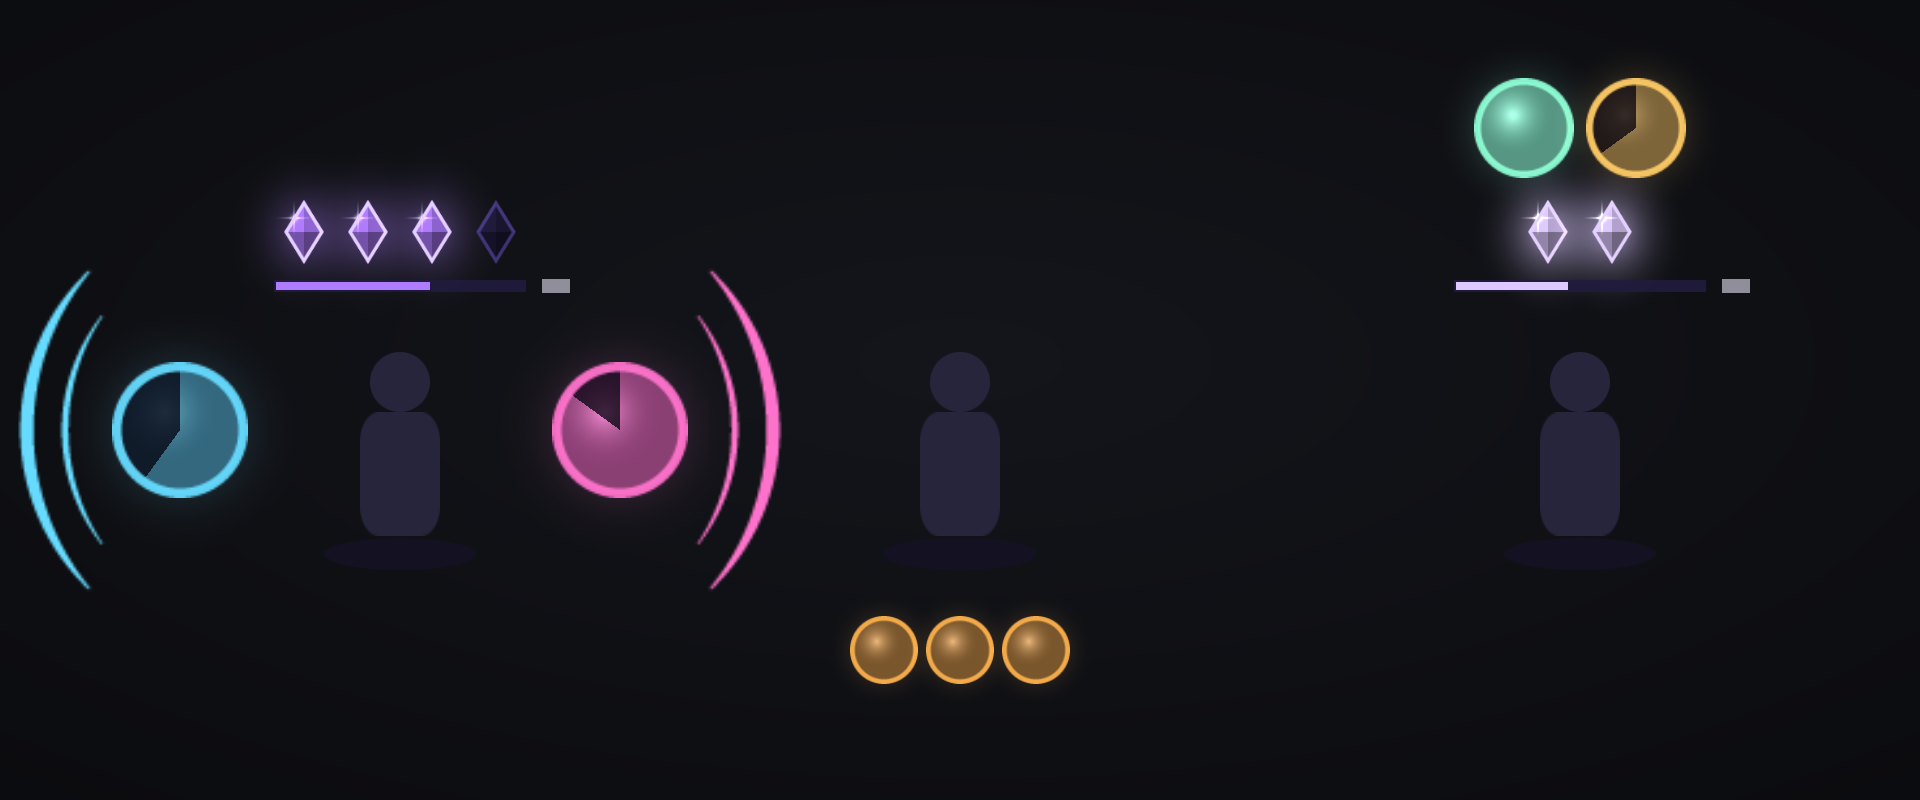
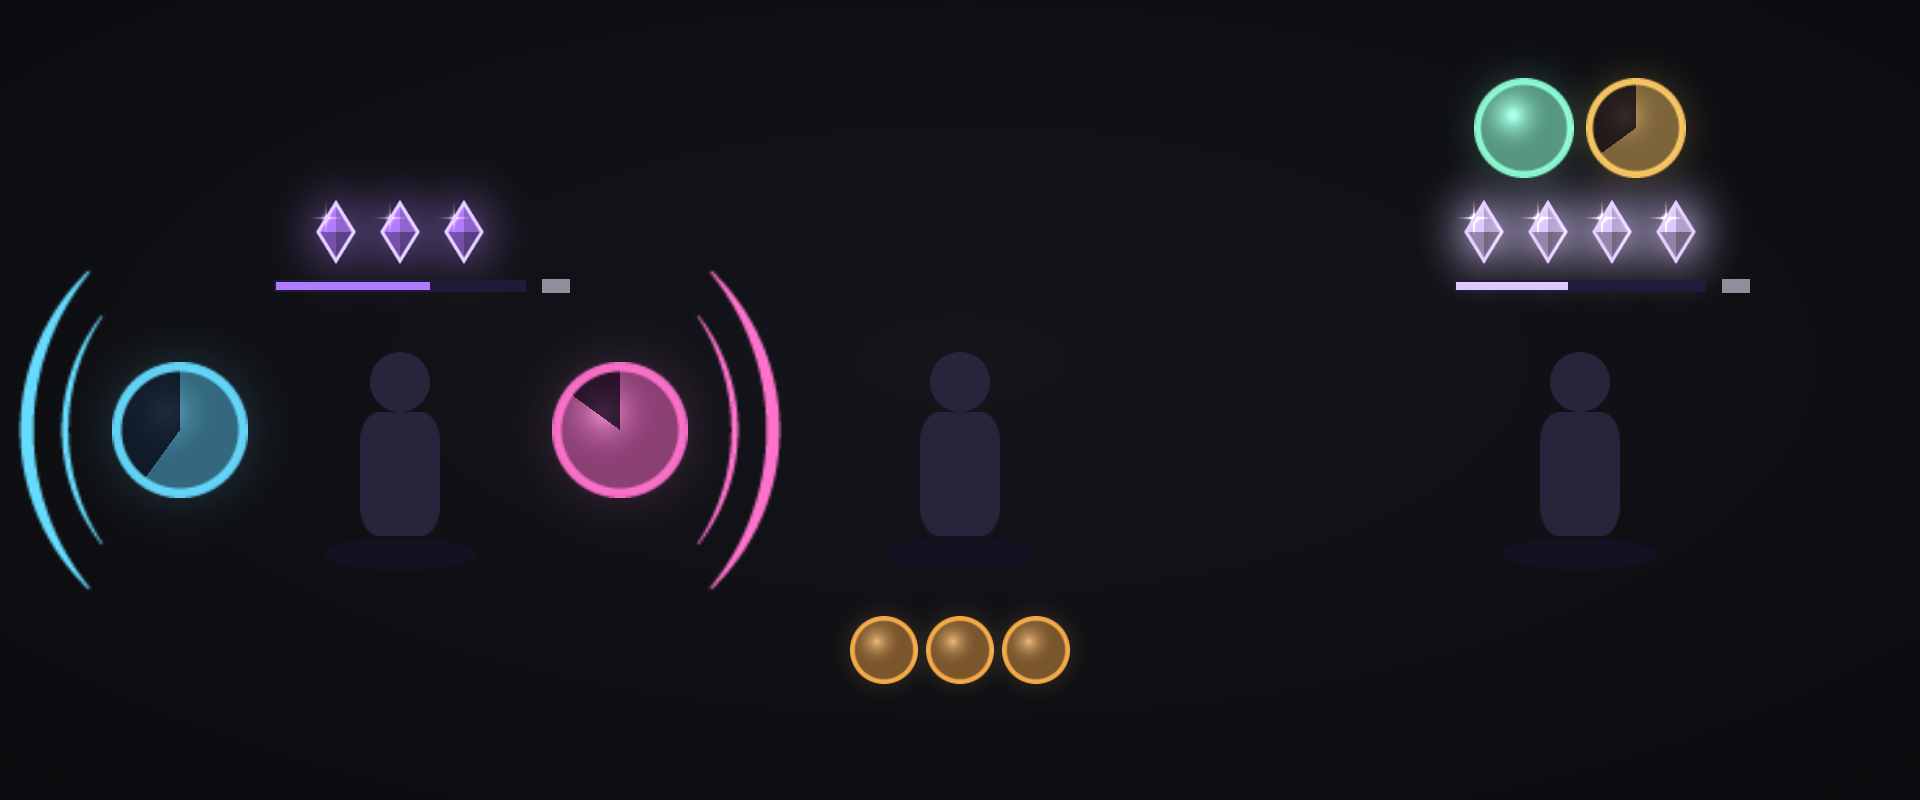
Arcanum 1.3.0 : décor « Art du jeu », réglage « Charges visées » retiré
- Nouveau décor de procs « jeu » : les illustrations d'alerte de proc de
  Blizzard, lues dans les fichiers du jeu par leur identifiant (449486
  pour le Barrage, 450918 teinté pour les Idées claires), en grands arcs
  du côté extérieur de l'icône.
- Un cristal par charge ; ils s'éclaircissent à quatre charges. Le
  réglage « Charges visées » ne servait plus à l'affichage.

Changed region(s): [[0.125, 0.25, 0.2812, 0.3438], [0.75, 0.2188, 0.8125, 0.375], [0.8438, 0.2188, 0.9062, 0.3438]]

diff --git a/tools/test/run_tests.py b/tools/test/run_tests.py
@@ -333,7 +333,7 @@ def main():
     t.M.advance(0.2)
     check(len([f for f in t.ns.Hud.crystals.values() if f._shown]) == 0, "sans charge : aucun cristal affiché")
     t.cast(AB)
-    check(len([f for f in t.ns.Hud.crystals.values() if f._shown]) == 2, "1 charge, 2 visées : deux cristaux affichés, pas quatre")
+    check(len([f for f in t.ns.Hud.crystals.values() if f._shown]) == 1, "1 charge : un seul cristal affiché")
     check(t.next() == ("blast", "arcane"), "1 charge : Déflagration")
     t.M.startCast(AB, 1.5)
     t.M.advance(0.2)
@@ -624,8 +624,8 @@ def main():
     check(not any(c._shown for c in hud.crystals.values()) and hud.bar._alpha == 0, "sans charge : ni cristaux ni barre")
     f.cast(AB)
     shown = [c for c in hud.crystals.values() if c._shown]
-    check(f.S.stacks == 1 and len(shown) == 2 and all(c._points[1][5] > 100 for c in shown),
-          "une charge : les cristaux apparaissent au-dessus du personnage, un par charge visée")
+    check(f.S.stacks == 1 and len(shown) == 1 and all(c._points[1][5] > 100 for c in shown),
+          "une charge : un cristal apparaît au-dessus du personnage")
     check(hud.bar._alpha == 1 and hud.barText._text in ("18 s", "17 s"), "sous les cristaux, la barre de leur fenêtre et ses secondes")
     pom, eur = hud.pomIcon, hud.eurekaIcon
     check(pom.on is False and pom._alpha == 0 and eur.on is False and eur._alpha == 0,
@@ -673,8 +673,15 @@ def main():
     f.run('SlashCmdList.ARCANUM("decor aucun")')
     check(left.decor._shown is False and right.decor._shown is False and left._shown is True,
           "/arc decor aucun : les procs restent, sans décor")
+    f.run('Mock.ns.Set("decor", "jeu")')
+    check(left.decor._tex == 450918 and right.decor._tex == 449486 and left.decor._shown is True,
+          "décor « art du jeu » : les illustrations de proc du jeu, par leur identifiant de fichier")
+    check(abs(left.decor._h - 256) < 12 and abs(left.decor._w - 128) < 6
+          and left.decor._points[1][4] == -48 and right.decor._points[1][4] == 48,
+          "de grands arcs, du côté extérieur de chaque proc")
     f.run('Mock.ns.Set("decor", "eclat")')
-    check(left.decor._shown is True and left.decor._tex.endswith("decor-rays"), "décor « éclat » : des rayons")
+    check(left.decor._shown is True and left.decor._tex.endswith("decor-rays") and left.decor._points[1][4] == 0,
+          "décor « éclat » : des rayons, centrés sur l'icône")
     f.run('Mock.ns.Set("spread", 200)')
     check(left._points[1][4] == -200 and right._points[1][4] == 200, "écartement réglé : les zones s'éloignent du personnage")
     f.run('SlashCmdList.ARCANUM("ecart 120")')

diff --git a/tools/preview.py b/tools/preview.py
@@ -184,7 +184,9 @@ def scene(cx, cy, stacks=0, target=2, window=0.0, clear=None, barrage=None, pom=
     top = cy - spread * 0.9
     full = stacks >= target
     col = C["hot"] if full else C["arcane"]
-    shown = min(4, max(target, stacks))
+    full = stacks >= 4
+    col = C["hot"] if full else C["arcane"]
+    shown = stacks   # un cristal par charge
     if stacks > 0:   # (sans charge : aucun cristal)
         for i in range(shown):
             x = cx + (i + 1 - (shown + 1) / 2) * 32
@@ -217,7 +219,7 @@ def main():
     # en combat, deux procs et trois charges sur quatre ; hors combat, trois rappels ; Présence spirituelle et Eurêka actifs
     scene(200, 215, stacks=3, target=4, window=0.62, clear=0.6, barrage=0.85)
     scene(480, 215, reminders=3)
-    scene(790, 215, stacks=2, target=2, window=0.45, pom=True)
+    scene(790, 215, stacks=4, target=4, window=0.45, pom=True)
 
     save(OUT)
     # les quatre décors des procs : en haut sur des Idées claires (côté gauche), en bas sur un Barrage (côté droit)

diff --git a/README.md b/README.md
@@ -8,14 +8,14 @@ Arcanum place chaque information d'un côté de ton personnage, pour que tu la l
 
 *Aperçu composé avec les textures de l'addon (le personnage est une silhouette, les icônes sont remplacées par des aplats, les zones sont plus rapprochées qu'en jeu). De gauche à droite : en combat avec deux procs et des charges, hors combat avec trois rappels, et la Présence spirituelle et Eurêka actifs. En jeu : `/arc demo`.*
 
-- **À gauche : les Idées claires. À droite : le Barrage de projectiles.** Une grande icône, celle du proc, cerclée de sa couleur (bleu clair ou rose), avec le temps restant en chiffres et un voile qui grandit à mesure que le proc s'épuise. Pas de proc : le côté reste vide. Un **décor** entoure l'icône tant que le proc est là, à sa couleur : croissants (d'origine), losange, anneau de runes qui tourne, éclat de rayons, ou aucun. Il se choisit dans les réglages (« Décor des procs », qui le montre aussitôt sur le HUD) ou avec `/arc decor`.
-- **En haut : les charges de Déflagration des Arcanes**, seulement quand tu en as. Un cristal par charge visée (deux par défaut, réglable à 3 ou 4), qui s'éclaircit quand la cible est atteinte ; un cristal de plus apparaît quand le jeu t'offre une charge. Dessous, une barre se vide pendant les 18 secondes de la fenêtre des charges, avec les secondes restantes ; elle rougit quand la fenêtre va se fermer.
+- **À gauche : les Idées claires. À droite : le Barrage de projectiles.** Une grande icône, celle du proc, cerclée de sa couleur (bleu clair ou rose), avec le temps restant en chiffres et un voile qui grandit à mesure que le proc s'épuise. Pas de proc : le côté reste vide. Un **décor** entoure l'icône tant que le proc est là, à sa couleur : croissants (d'origine), losange, anneau de runes qui tourne, éclat de rayons, **art du jeu** (les grands arcs peints par Blizzard pour ses propres alertes de proc : l'arc violet gravé de runes des Projectiles des Arcanes pour le Barrage, un arc ouvragé teinté en bleu pour les Idées claires), ou aucun. Il se choisit dans les réglages (« Décor des procs », qui le montre aussitôt sur le HUD) ou avec `/arc decor`.
+- **En haut : les charges de Déflagration des Arcanes**, seulement quand tu en as. Un cristal par charge ; à quatre charges, le maximum, ils s'éclaircissent. Dessous, une barre se vide pendant les 18 secondes de la fenêtre des charges, avec les secondes restantes ; elle rougit quand la fenêtre va se fermer.
 - **Au-dessus des charges : la Présence spirituelle et Eurêka**, tant qu'ils sont actifs. L'icône de la Présence spirituelle, cerclée de vert, te rappelle que ton prochain sort sera instantané ; celle d'Eurêka, cerclée d'or, montre son temps restant. Une seule active : elle est centrée ; les deux : côte à côte.
 - **En bas, hors combat : les rappels.** L'icône de ce qu'il manque avant d'engager : Intelligence des Arcanes, armure, et ce qui reste à invoquer : eau, nourriture, gemme de mana. Seuls les objets invoqués comptent (une eau achetée ne dispense pas d'en invoquer), et pour la gemme c'est la meilleure que tu sais invoquer qui est attendue. Rien ne manque : rien ne s'affiche. Au repos en ville, les rappels attendent que tu sortes ou que tu cibles un ennemi.
 
 ![Les quatre décors des procs](docs/decors.png)
 
-*Les décors des procs, de gauche à droite : croissants, losange, anneau de runes, éclat. En haut sur des Idées claires, en bas sur un Barrage de projectiles.*
+*Les décors dessinés par Arcanum, de gauche à droite : croissants, losange, anneau de runes, éclat (le décor « art du jeu » utilise les images du jeu, absentes de cet aperçu). En haut sur des Idées claires, en bas sur un Barrage de projectiles.*
 
 Le HUD est centré sur l'écran, là où se tient ton personnage. Le réglage « Écartement » (ou `/arc ecart 150`) éloigne ou rapproche les quatre zones ; `/arc verrou` permet de déplacer l'ensemble.
 
@@ -39,12 +39,12 @@ Il ne se réveille que sur un mage. Après une mise à jour qui ajoute des textu
 
 | Commande | Effet |
 |---|---|
-| `/arc` | Réglages (ce qui s'affiche, charges visées, taille, écartement, sons) |
+| `/arc` | Réglages (ce qui s'affiche, décor des procs, taille, écartement, sons) |
 | `/arc demo` | Le HUD joue un cycle complet, sans combattre (marche sur toute classe) |
 | `/arc verrou` | Déplacer le HUD, puis le fixer |
 | `/arc taille 120` | Taille du HUD, en pourcentage (de 60 à 180) |
 | `/arc ecart 150` | Distance entre le personnage et les zones (de 80 à 320) |
-| `/arc decor` | Passe au décor de procs suivant ; `/arc decor runes` le choisit (`aucun`, `croissants`, `losange`, `runes`, `eclat`) |
+| `/arc decor` | Passe au décor de procs suivant ; `/arc decor runes` le choisit (`aucun`, `croissants`, `losange`, `runes`, `eclat`, `jeu`) |
 | `/arc sons` | Fait entendre les deux sons (Idées claires, Barrage) |
 | `/arc son 3071` | Fait entendre un son du jeu ; `/arc son barrage 3071` le choisit pour un proc (`clear` ou `barrage`), `/arc son barrage voix` le fait dire par la voix du jeu |
 | `/arc macro` | Crée la macro de burst (Eureka + Présence spirituelle + Courroux) avec les noms exacts que le jeu donne aux sorts |

diff --git a/CHANGELOG.md b/CHANGELOG.md
@@ -1,5 +1,10 @@
 # Historique d'Arcanum
 
+## 1.3.0 — 13 novembre 2026
+
+- Nouveau décor de procs, « Art du jeu » (`/arc decor jeu`) : les grands arcs peints par Blizzard pour ses propres alertes de proc, lus dans les fichiers du jeu. L'arc violet gravé de runes des Projectiles des Arcanes pour le Barrage de projectiles, un arc ouvragé teinté en bleu pour les Idées claires. Si ton client n'a pas ces images, le décor reste vide : choisis-en un autre.
+- Le réglage « Charges visées » est retiré : il ne servait plus qu'à compter des cristaux vides. Il y a maintenant un cristal par charge, et ils s'éclaircissent à quatre charges.
+
 ## 1.2.0 — 13 novembre 2026
 
 - Eurêka actif : son icône, cerclée d'or, s'affiche au-dessus des charges avec son temps restant, tant que l'amélioration dure. Si la Présence spirituelle est active en même temps, les deux icônes sont côte à côte.
